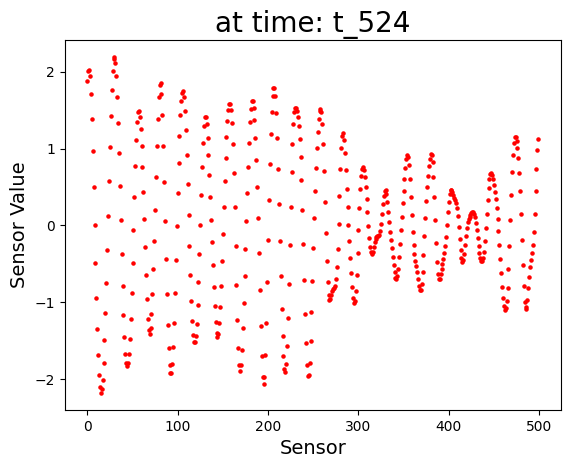
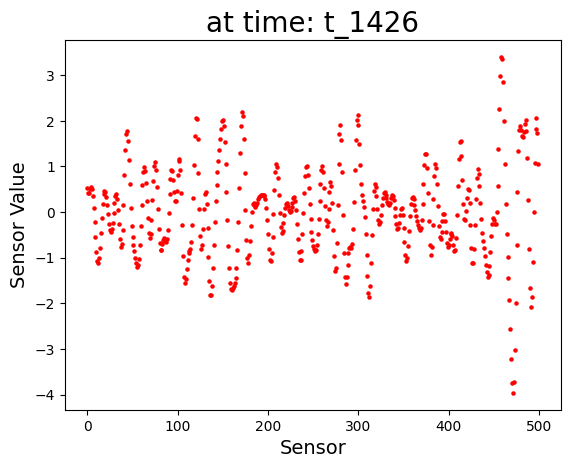
feat: Data Correlation Analysis

diff --git a/motor_vibration_anomaly_detection/code/analysisA.py b/motor_vibration_anomaly_detection/code/analysisA.py
@@ -175,3 +175,53 @@ plt.xlabel("Time", fontsize=15)
 plt.ylabel("Sensor Value", fontsize=15)
 plt.savefig(img_save_path + 'ford_data_ts_sensor{}.png'.format(sensor_number), dpi=100, bbox_inches='tight')  # Plot 이미지 저장
 plt.show()  # Plot 화면에 출력
+
+# ==============================
+# 데이터 상관관계 분석
+# Data Correlation Analysis
+# ==============================
+
+import matplotlib.cm as cm  # Colormap handling (컬러맵 처리)
+from matplotlib.collections import EllipseCollection  # Ellipse collection for correlation plot (상관관계 플롯용 타원 컬렉션)
+
+
+df = pd.DataFrame(data=x_train, columns=["sensor_{}".format(label + 1) for label in range(x_train.shape[1])])  # DataFrame 생성, 열 이름 지정
+data = df.corr() # 상관관계 행렬 계산(원리: 피어슨 상관계수)
+
+def plot_corr_ellipes(data, ax=None, **kwargs):
+    M = np.array(data)
+    if not M.ndim == 2: # 2차원 배열인지 확인
+        raise ValueError("Data must be 2-dimensional")
+    if ax is None:      # ax가 주어지지 않으면 새로 생성
+        fig, ax = plt.subplots(1, 1, subplot_kw={'aspect': 'equal'})   # 동일한 비율의 축 설정
+        ax.set_xlim(-0.5, M.shape[1] - 0.5) # x축 한계 설정
+        ax.set_ylim(-0.5, M.shape[0] - 0.5) # y축 한계 설정
+
+    xy = np.indices(M.shape)[::-1].reshape(2, -1).T  # 좌표 생성 및 재구성
+
+    w = np.ones_like(M).ravel() # 타원 너비 설정
+    h = 1 - np.abs(M).ravel()  # 타원 높이 설정
+    a = 45 * np.sign(M).ravel() # 타원 각도 설정
+
+    ec = EllipseCollection(widths=w, heights=h, angles=a, units='x',
+                           offsets=xy, transOffset=ax.transData,array=M.ravel(), **kwargs)  # 타원 컬렉션 생성
+    ax.add_collection(ec)   # 타원 컬렉션 추가
+
+    if isinstance(data, pd.DataFrame):  # DataFrame인 경우 축 눈금 설정
+        ax.set_xticks(np.arange(M.shape[1]))
+        ax.set_xticklabels(data.columns, rotation=90)
+        ax.set_yticks(np.arange(M.shape[0]))
+        ax.set_yticklabels(data.index)
+    return ec
+
+fig, ax = plt.subplots(1, 1, figsize=(20, 20))  # Plot 틀(Figure) 및 축(Axis) 생성
+cmap = cm.get_cmap('jet', 31)  # Colormap 설정
+m = plot_corr_ellipes(data, ax=ax, cmap=cmap)  # 상관관계 타원 플롯 생성
+cb = fig.colorbar(m)  # Colorbar 추가
+cb.set_label('Correlation coefficient')
+plt.title('Correlation between Feature')
+ax.axes.xaxis.set_visible(False)
+ax.axes.yaxis.set_visible(False)
+plt.tight_layout()
+plt.savefig(img_save_path + 'corr.png', dpi=100, bbox_inches='tight')  # Plot 이미지 저장
+plt.show()  # Plot 화면에 출력
